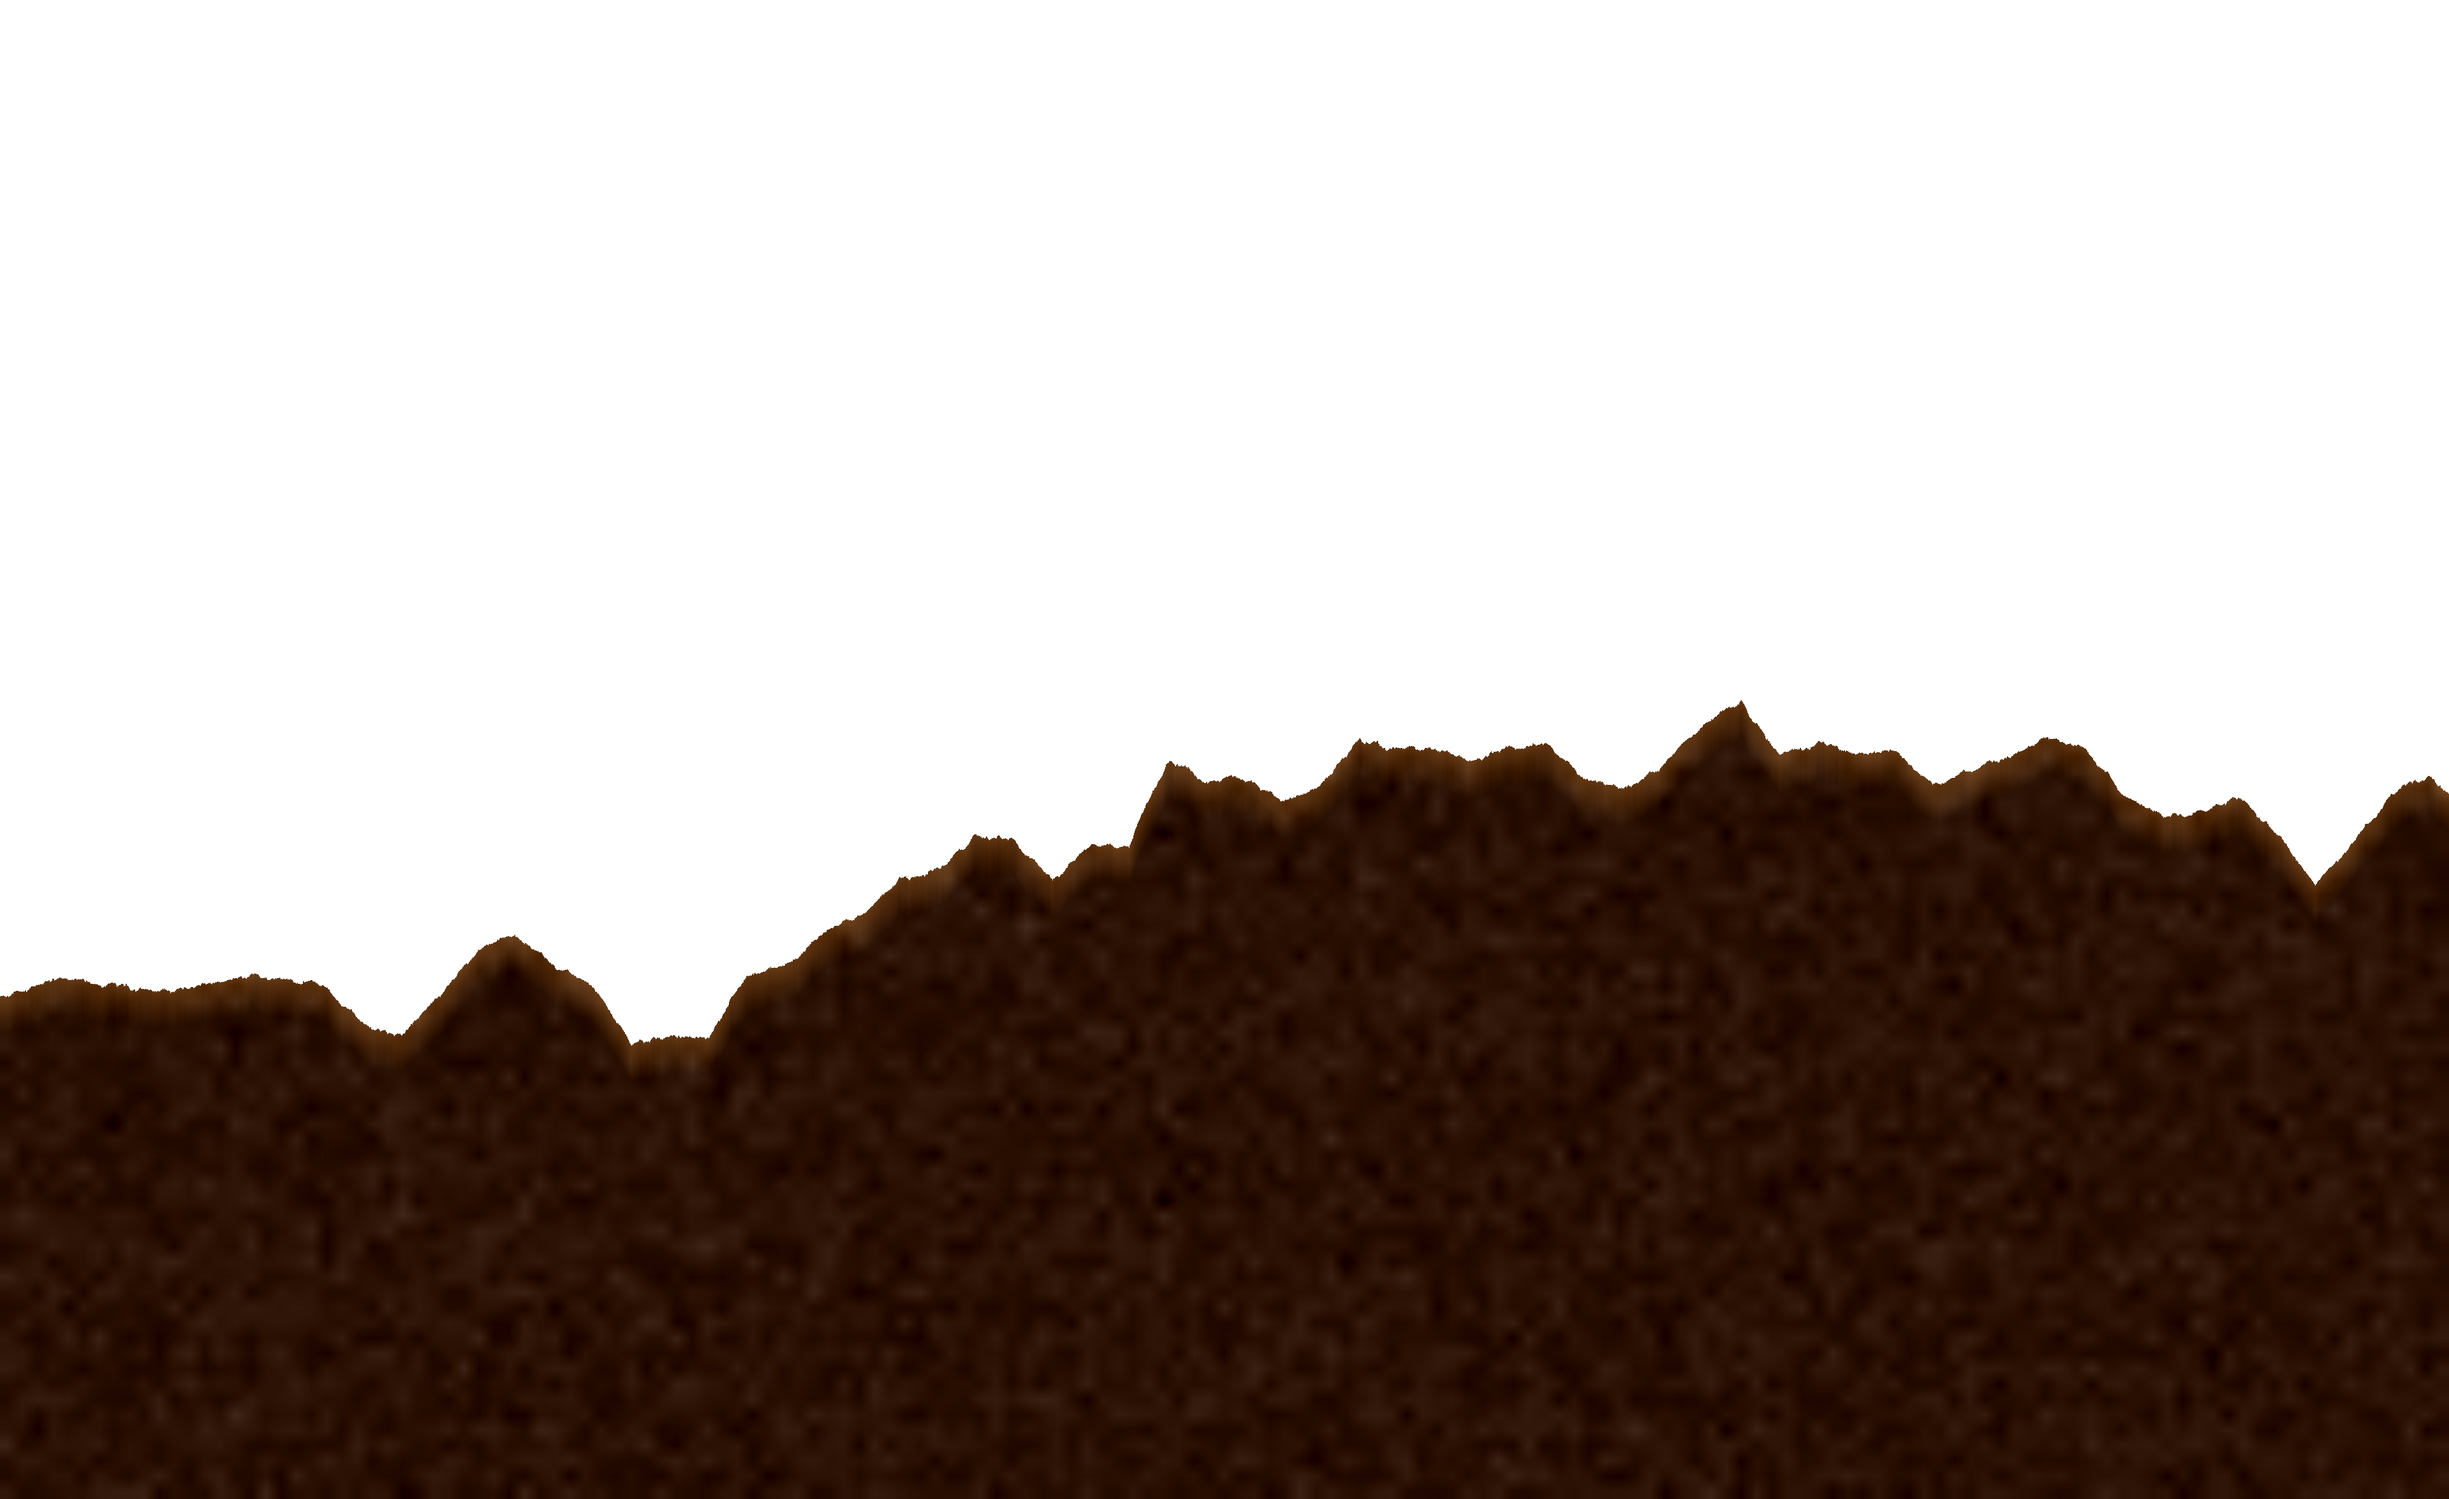
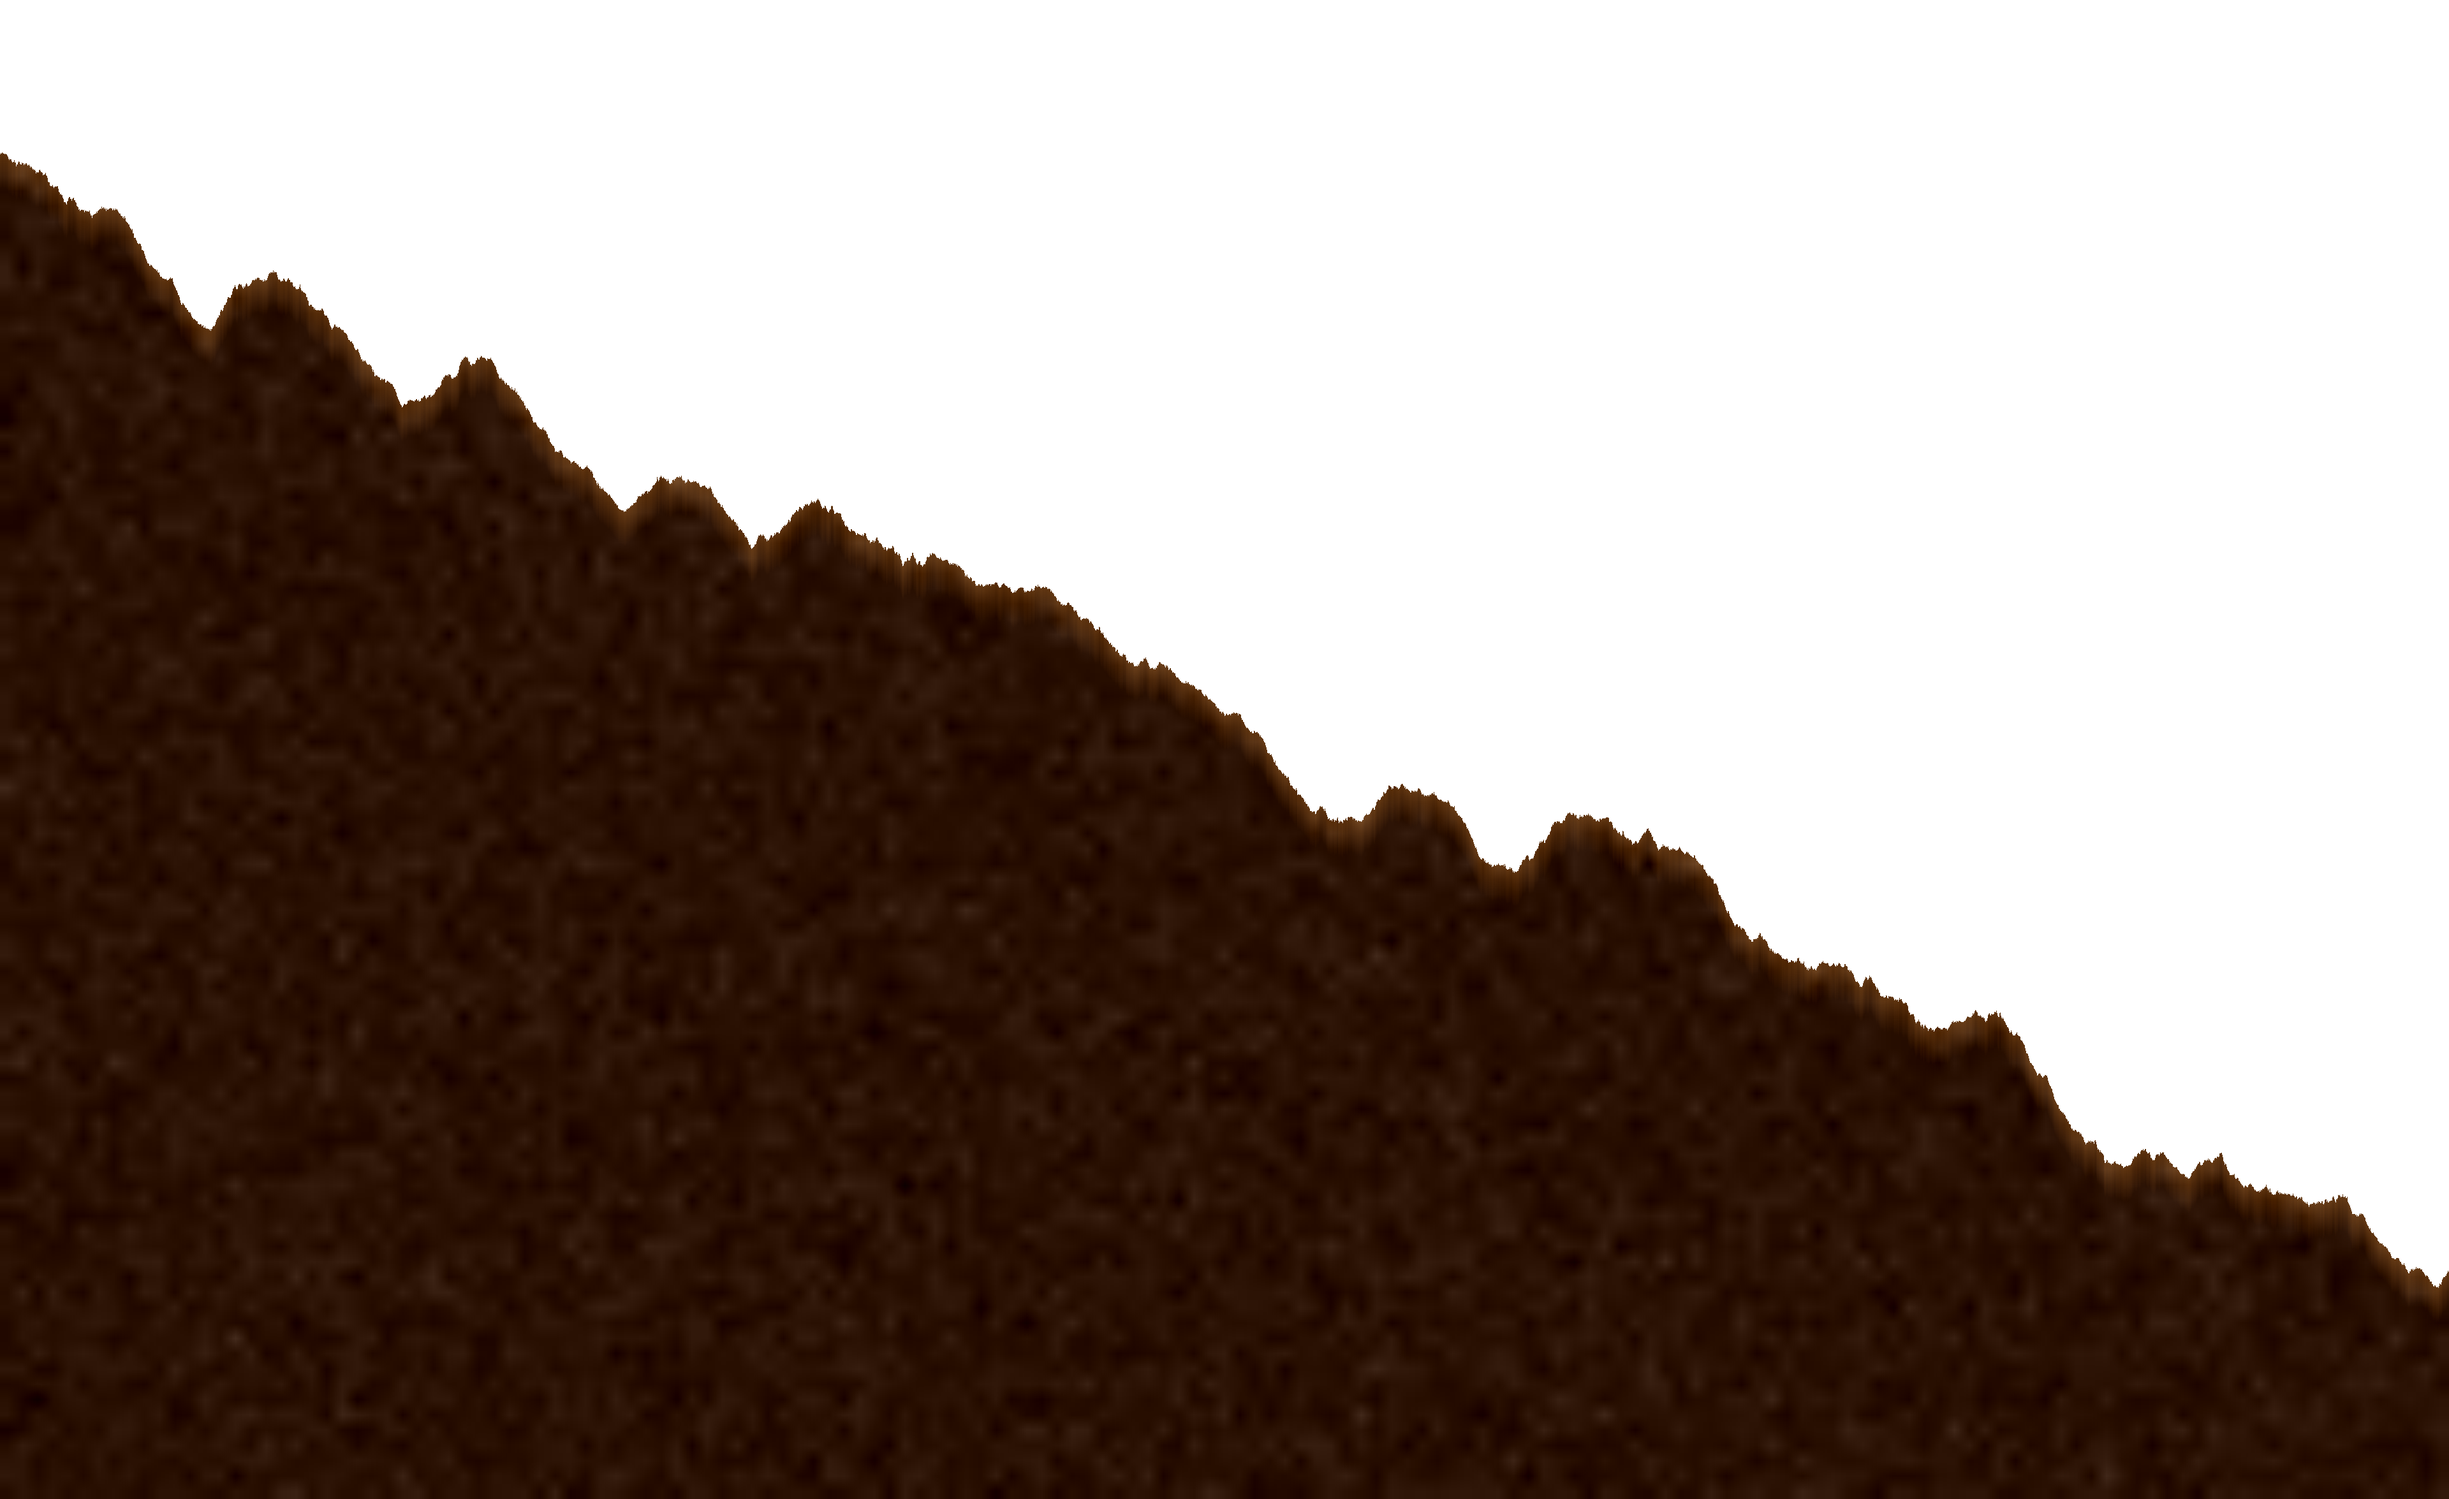
Fiks bane 5: marken falt gjennom tomt rom, bakken startet for langt nede
Mathias meldte "ser ikke banen på bane 5" og ba meg sjekke markens
startposisjon. Marken (del1) starter alltid på verdenskoordinat (0,0)
i alle baner (samme i level4.lua). Målte hvor bakken faktisk starter
i level4/1.png ved den kolonnen som tilsvarer verdenskoordinat x=0:
rundt 11% ned i bildet. Gårsdagens kurve startet i stedet på 60% ned,
så marken falt over 1500 piksler gjennom gjennomsiktig rom før noe
bakke kom i syne.

Målte samtidig den faktiske formen på Ørjans ekte kunst mens jeg var
inne i filene: hver flis er en bratt nedoverbakke i seg selv (~11% ned
ved venstrekant til ~83% ned ved høyrekant), med et tydelig steg i
verdenskoordinater fra én flis til neste, ikke én jevn kurve som flyter
sammen ved kantene slik jeg antok i går.

Skrev om terreng-scriptet til å gi hver flis sin egen bratte kurve
etter dette mønsteret i stedet for én kurve over alle fire. Gapet fra
markens startpunkt til ny bakke blir nå ca 777 enheter, tett opptil de
627-751 målt i ekte bane 4-kunst. Regenererte level5/1-4.png og
lib/shapedefs5.lua fra den nye kurven. Hullet mellom flis 2 og 3 urørt.

Luac-sjekket.

Claude-Session: https://claude.ai/code/session_01KM3gBnL2KBiiwgB3FdLDrQ

Changed region(s): [[0.0, 0.0932, 1.0, 0.8694]]

diff --git a/TIL-ORJAN.md b/TIL-ORJAN.md
@@ -1294,3 +1294,42 @@ ikke testet i faktisk nettleser — spesielt viktig å få bekreftet nå:
 at kollisjonen mot den NYE bakken faktisk stemmer visuelt (den er
 riktig utregnet, men "riktig utregnet" er ikke det samme som "sett
 med egne øyne i spillet").
+
+## 2026-09-15, marken så ikke banen: kurven min startet for langt nede
+
+Mathias meldte "ser ikke banen på bane 5" og ba meg sjekke markens
+startposisjon. God ledetråd, for det var akkurat der feilen lå.
+
+Marken (`del1`) starter alltid på verdenskoordinat (0,0), i ALLE baner
+(bekreftet identisk i `level4.lua` også, ikke noe jeg selv satte opp).
+Første flis (`firkant1`) står på (3500, 2300) med en kjempestørrelse
+(7680×4702), så (0,0) havner et stykke inn i selve fliseflaten — men
+KUN dersom bakkeflaten faktisk ligger nær toppen av bildet der. Målte
+etterpå hvor bakken faktisk starter i `level4/1.png` sin egen
+bildefil, nøyaktig ved kolonnen som tilsvarer verdenskoordinat x=0:
+rundt 11 % ned i bildet. Min kurve fra forrige runde startet derimot
+på 60 % ned (en jevn, flat kurve rundt midten) — marken falt dermed
+over 1500 piksler gjennom tomt, gjennomsiktig rom før noe bakke i det
+hele tatt kom i syne. Med kameraet fokusert på marken var resultatet
+nettopp "ser ikke banen": skjermen viste bare tomrom lenge før noe
+dukket opp.
+
+Målte samtidig, mens jeg først var inne i `level4` sine bildefiler,
+den faktiske formen på Ørjans ekte kunst: hver flis er IKKE en jevn,
+rullende bakke, men en bratt nedoverbakke i seg selv (fra ~11 % ned
+ved flisens egen venstrekant til ~83 % ned ved høyrekanten), med et
+tydelig steg/hopp i verdenskoordinater fra én flis til neste (målt
+til over 1000 enheter). Skrev om terreng-scriptet fra "én jevn kurve
+over alle fire flisene" til at hver flis får sin EGEN bratte
+nedoverbakke-kurve (samme mønster som målt), i stedet for å anta at
+flisene skulle flyte jevnt sammen ved kantene. Regnet ut på nytt at
+gapet mellom markens startpunkt og ny bakke nå blir ca 777 enheter,
+tett opptil de 627-751 jeg målte i den ekte bane 4-kunsten.
+
+Genererte alle fire flisene og `lib/shapedefs5.lua` på nytt fra den
+nye kurven. Hullet mellom flis 2 og 3 (fra forrige commit) er urørt.
+
+Luac-sjekket. Fortsatt ikke sett i faktisk nettleser, men
+avstanden fra markens startpunkt til bakken er nå tallfestet og
+matcher den ekte bane 4-kunsten godt, så jeg er en god del tryggere
+denne gangen enn forrige.

diff --git a/KODEBASE.md b/KODEBASE.md
@@ -174,13 +174,19 @@ filene gjør.
   flyttet en ekstra halv flis-lengde unna `firkant2`, fanget opp av
   den eksisterende `dod`-dødssonen). Grafikken (`level5/1-4.png`) er
   ikke håndtegnet som resten av spillet, men generert med et
-  Python-script som tegner en sammenhengende terrengkurve; selve
-  kollisjonsformen i `lib/shapedefs5.lua` er regnet ut direkte fra de
-  samme koordinatene kurven ble tegnet med (ikke sporet i etterkant),
-  så form og bilde stemmer eksakt overens per konstruksjon. `del1`
-  (marken sin egen form) kopiert uendret fra `lib/shapedefs4.lua`. Se
-  `TIL-ORJAN.md` for hele prosessen, inkludert et mellomsteg der bane
-  4 sine bilder ble lånt midlertidig for å teste selve mekanikken
+  Python-script; selve kollisjonsformen i `lib/shapedefs5.lua` er
+  regnet ut direkte fra de samme koordinatene kurven ble tegnet med
+  (ikke sporet i etterkant), så form og bilde stemmer eksakt overens
+  per konstruksjon. `del1` (marken sin egen form) kopiert uendret fra
+  `lib/shapedefs4.lua`. Hver flis har sin EGEN bratte
+  nedoverbakke-kurve (fra ~12 % ned ved venstrekant til ~83 % ned ved
+  høyrekant, målt fra bane 4 sin ekte kunst), ikke én jevn kurve over
+  alle fire flisene som i det aller første forsøket — den jevne
+  varianten plasserte bakken altfor langt fra der marken faktisk
+  starter (verdenskoordinat 0,0), så marken falt gjennom tomt rom uten
+  at noen bakke kom i syne. Se `TIL-ORJAN.md` for hele prosessen,
+  inkludert et mellomsteg der bane 4 sine bilder ble lånt midlertidig
+  for å teste selve mekanikken
   isolert fra grafikken.
 
 ### Banevalg-systemet
